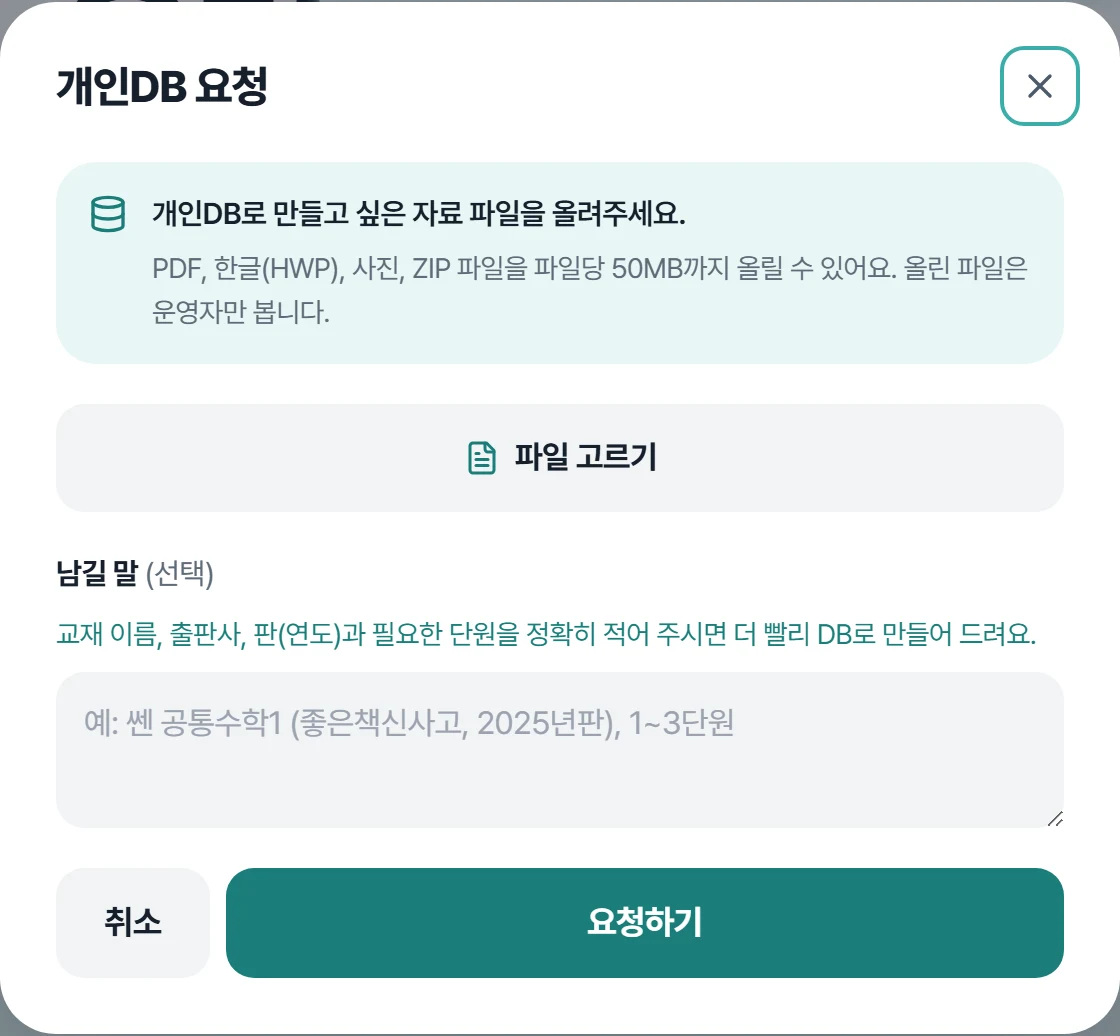
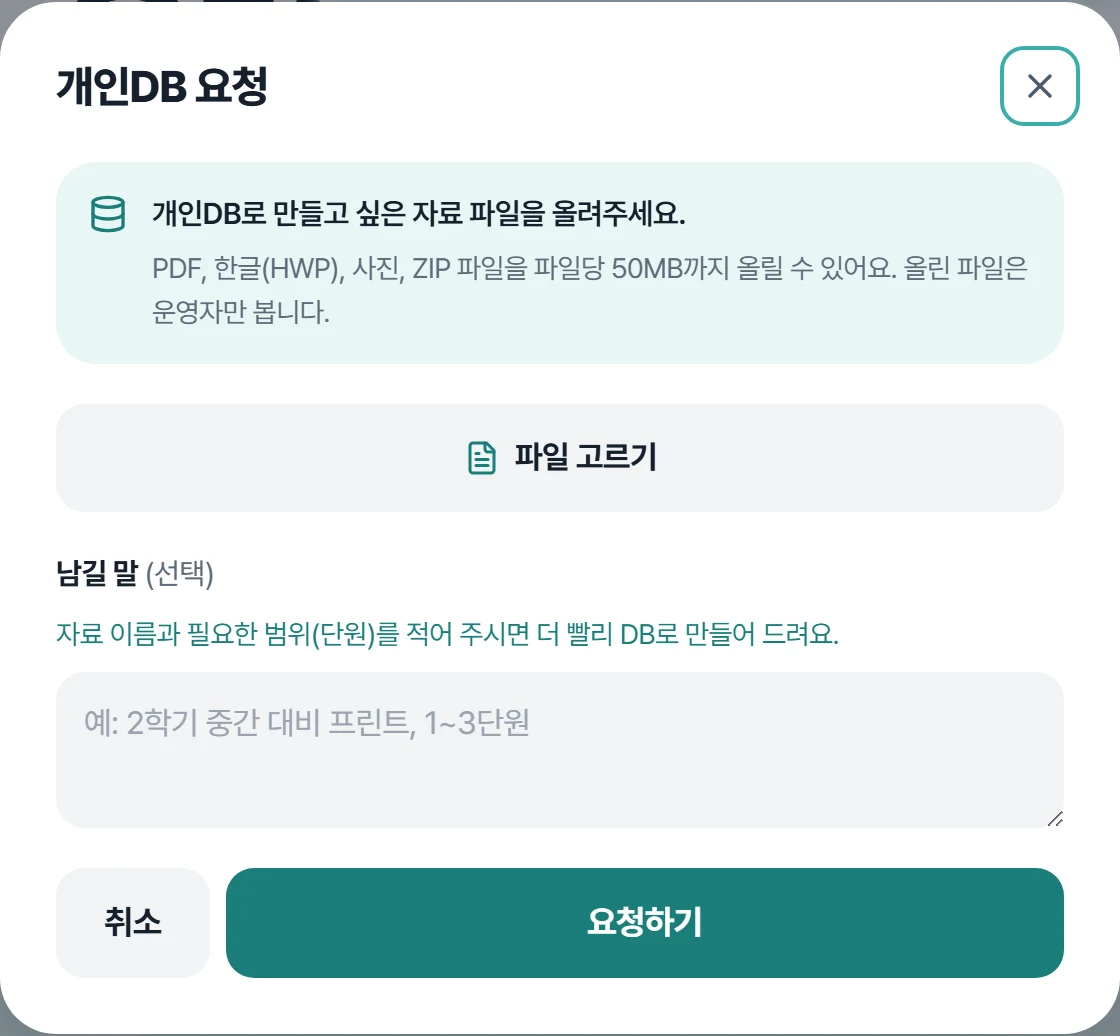
fix(문구): 교재·출판사 이름을 화면에서 뺌(개인DB 요청 창 예시·홈 설명), 홈·강사 안내 사진과 설명에서 학교 이름(휘문고) 뺌

Changed region(s): [[0.125, 0.5869, 0.9062, 0.6486], [0.0938, 0.6795, 0.6562, 0.7104], [0.0625, 0.5869, 0.0938, 0.6486]]

diff --git a/src/components/home/RdHome.tsx b/src/components/home/RdHome.tsx
@@ -41,10 +41,10 @@ export function RdHomeShowcase() {
         <section className="rd-wrap" aria-label="실제 서비스 화면">
             <div className="rd-showcase">
                 <div className="rd-showcase-head">
-                    <span>실제 서비스 화면, 휘문고 2025 고1 1학기 중간</span>
+                    <span>실제 서비스 화면, 고1 1학기 중간고사 기출</span>
                     <span className="rd-pill">20문항을 담은 검토 화면</span>
                 </div>
-                <Image src="/home/review.webp" alt="휘문고 기출 20문항을 담아 검토하는 시험지 만들기 화면" width={2200} height={653} priority sizes="(max-width: 1160px) 100vw, 1048px" />
+                <Image src="/home/review.webp" alt="학교 기출 20문항을 담아 검토하는 시험지 만들기 화면" width={2200} height={653} priority sizes="(max-width: 1160px) 100vw, 1048px" />
             </div>
         </section>
     );
@@ -100,11 +100,11 @@ export function RdHomeFeatures() {
                 <div className="rd-wrap rd-split rd-reverse">
                     <div className="rd-txt">
                         <p className="rd-kicker">개인DB 요청</p>
-                        <h2 className="rd-h2">가진 교재와 프린트도<br />시험지 재료로</h2>
-                        <p className="rd-lead">쓰고 있는 시중 교재나 프린트를 올려 주시면 문항 DB로 만들어 회원님의 시험지 만들기에만 넣어 드려요. 다른 회원에게는 보이지 않고, 처리 결과는 마이페이지에서 안내해 드려요.</p>
+                        <h2 className="rd-h2">내가 가진 자료도<br />시험지 재료로</h2>
+                        <p className="rd-lead">수업에 쓰는 프린트나 자료를 올려 주시면 문항 DB로 만들어 회원님의 시험지 만들기에만 넣어 드려요. 다른 회원에게는 보이지 않고, 처리 결과는 마이페이지에서 안내해 드려요.</p>
                         <OpenEventButton event="open-db-request" className="rd-btn rd-btn-primary rd-feature-cta">개인DB 요청하기</OpenEventButton>
                     </div>
-                    <div className="rd-pic"><div className="rd-paper rd-paper-modal"><Image src="/home/dbreq.webp" alt="교재 파일을 올리고 교재 이름을 적는 개인DB 요청 창" width={1120} height={1036} sizes="(max-width: 900px) 80vw, 520px" /></div></div>
+                    <div className="rd-pic"><div className="rd-paper rd-paper-modal"><Image src="/home/dbreq.webp" alt="자료 파일을 올리고 필요한 범위를 적는 개인DB 요청 창" width={1120} height={1036} sizes="(max-width: 900px) 80vw, 520px" /></div></div>
                 </div>
             </section>
         </>

diff --git a/src/components/DbRequestModal.tsx b/src/components/DbRequestModal.tsx
@@ -104,8 +104,8 @@ export default function DbRequestModal({ open, onClose }: { open: boolean; onClo
 
                             <section style={{ display: 'flex', flexDirection: 'column', gap: 8 }}>
                                 <h3 style={{ margin: 0, fontSize: 15, fontWeight: 700, color: 'var(--rd-text)' }}>남길 말 <span style={{ fontWeight: 400, color: 'var(--rd-sub)' }}>(선택)</span></h3>
-                                <p style={{ margin: 0, fontSize: 14, lineHeight: 1.6, color: 'var(--rd-ink)' }}>교재 이름, 출판사, 판(연도)과 필요한 단원을 정확히 적어 주시면 더 빨리 DB로 만들어 드려요.</p>
-                                <textarea value={note} onChange={e => setNote(e.target.value)} maxLength={300} rows={2} placeholder="예: 쎈 공통수학1 (좋은책신사고, 2025년판), 1~3단원"
+                                <p style={{ margin: 0, fontSize: 14, lineHeight: 1.6, color: 'var(--rd-ink)' }}>자료 이름과 필요한 범위(단원)를 적어 주시면 더 빨리 DB로 만들어 드려요.</p>
+                                <textarea value={note} onChange={e => setNote(e.target.value)} maxLength={300} rows={2} placeholder="예: 2학기 중간 대비 프린트, 1~3단원"
                                     style={{ width: '100%', boxSizing: 'border-box', background: 'var(--rd-panel)', border: 0, borderRadius: 14, padding: '13px 14px', fontSize: 16, lineHeight: 1.6, color: 'var(--rd-text)', fontFamily: 'inherit', outline: 'none', resize: 'vertical' }} />
                             </section>
 

diff --git a/src/components/TeacherWorkflow.tsx b/src/components/TeacherWorkflow.tsx
@@ -13,7 +13,7 @@ const STEPS = [
         label: '학교와 회차를 정하고, 필요한 카드만 담으세요',
         description: '출제 자료에서 원하는 학교와 시험 회차를 선택하세요. 단원과 난이도를 더하면 필요한 문제만 좁혀 볼 수 있습니다. 문항 카드를 누르면 담기고, 다시 누르면 빠집니다.',
         tip: '여러 학교의 자료를 함께 선택할 수도 있어요.',
-        image: { src: '/home/cards.webp', width: 1800, height: 343, alt: '휘문고 2025년 고1 1학기 중간고사 실제 기출 문항 카드에 단원과 난이도가 표시된 화면' },
+        image: { src: '/home/cards.webp', width: 1800, height: 343, alt: '고1 1학기 중간고사 실제 기출 문항 카드에 단원과 난이도가 표시된 화면' },
         wide: true,
     },
     {
@@ -42,7 +42,7 @@ export default function TeacherWorkflow() {
             <div className="rd-wrap">
                 <p className="rd-kicker">실제 화면으로 미리 보기</p>
                 <h2 id="workflow-title" className="rd-h2">이렇게 골라서,<br />내 시험지로</h2>
-                <p className="rd-lead">휘문고 2025년 고1 1학기 중간고사 실제 기출로 시험지를 만든 과정입니다.</p>
+                <p className="rd-lead">한 학교의 고1 1학기 중간고사 실제 기출로 시험지를 만든 과정입니다.</p>
             </div>
             {STEPS.map((step) => (
                 <div key={step.no} className="rd-tc-step">

diff --git a/src/app/teacher/page.tsx b/src/app/teacher/page.tsx
@@ -109,10 +109,10 @@ export default async function TeacherLandingPage() {
                 <section className="rd-wrap" aria-label="실제 서비스 화면">
                     <div className="rd-showcase">
                         <div className="rd-showcase-head">
-                            <span>실제 서비스 화면, 휘문고 2025 고1 1학기 중간</span>
+                            <span>실제 서비스 화면, 고1 1학기 중간고사 기출</span>
                             <span className="rd-pill">담은 문항을 검토하는 화면</span>
                         </div>
-                        <Image src="/home/review.webp" alt="휘문고 기출 문항을 담아 검토하는 시험지 만들기 화면" width={2200} height={653} priority sizes="(max-width: 1160px) 100vw, 1048px" />
+                        <Image src="/home/review.webp" alt="학교 기출 문항을 담아 검토하는 시험지 만들기 화면" width={2200} height={653} priority sizes="(max-width: 1160px) 100vw, 1048px" />
                     </div>
                 </section>
 
